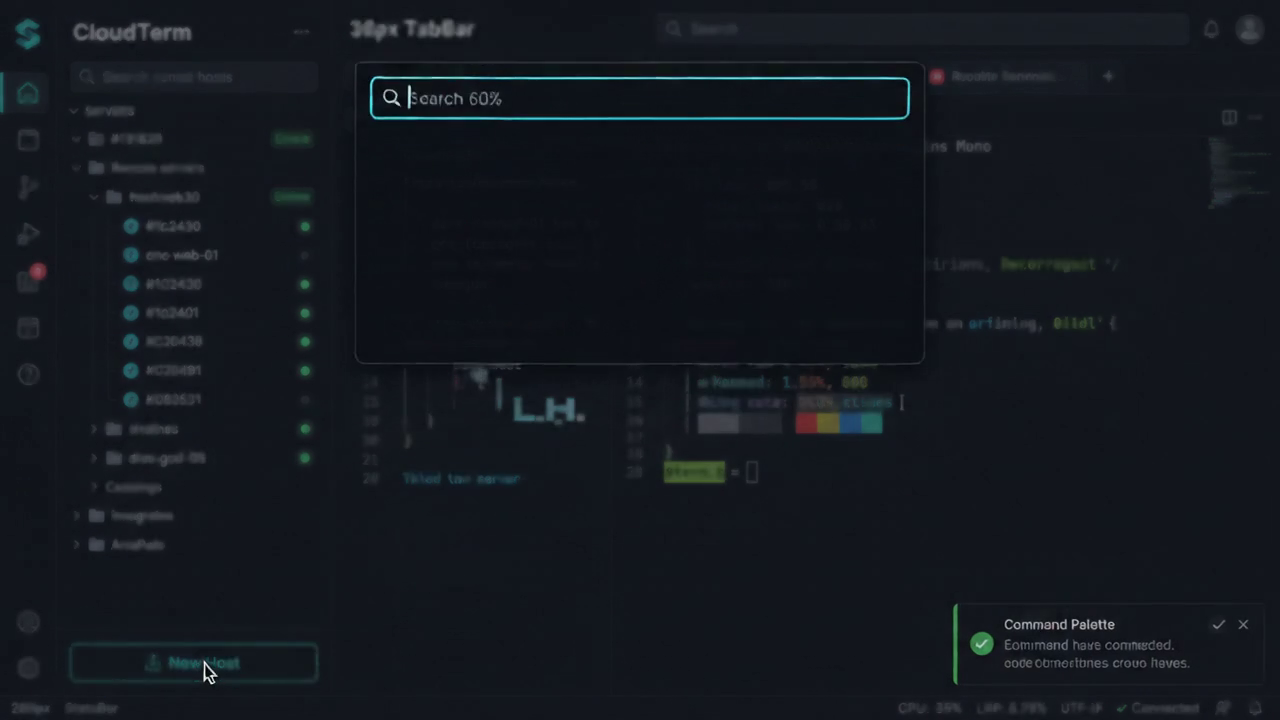
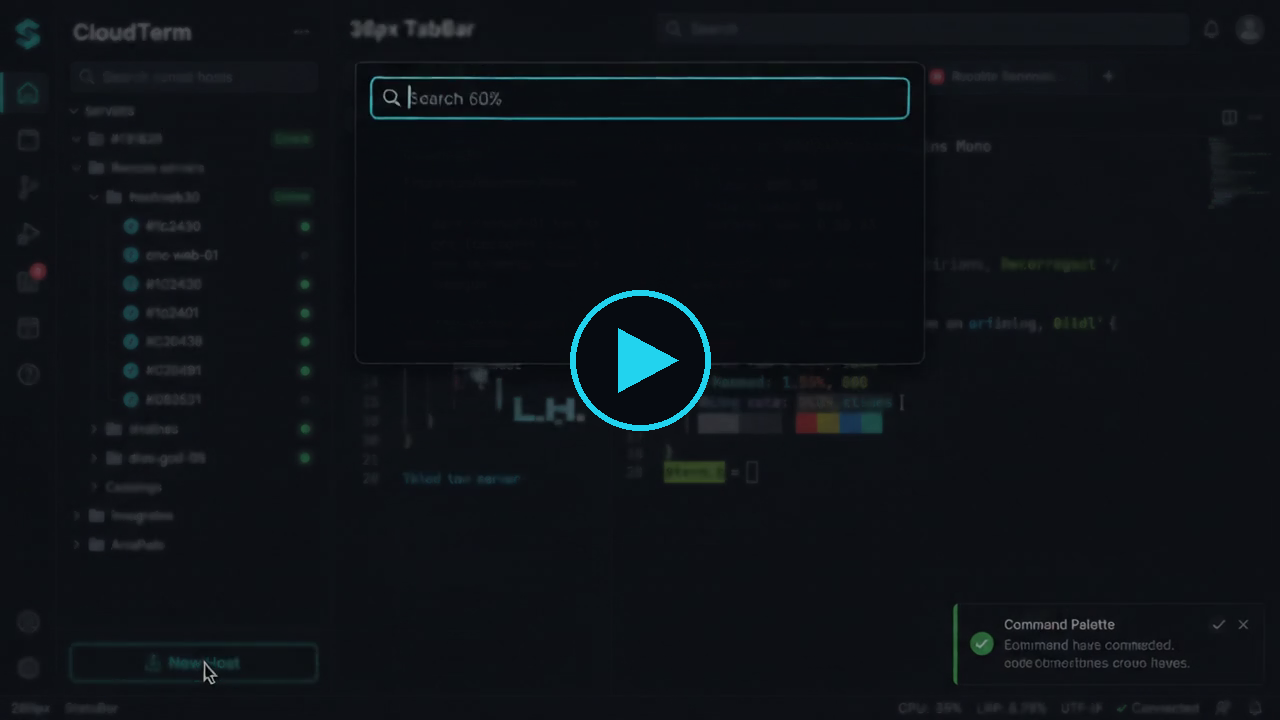
Usar un GIF del ejemplo en el README
El mp4 embebido desde raw no se reproduce en el perfil de GitHub.

diff --git a/README.md b/README.md
@@ -14,7 +14,7 @@ queda en tu equipo.
 [![Idiomas](https://img.shields.io/badge/idiomas-espa%C3%B1ol%20%C2%B7%20english%20%C2%B7%20%E7%AE%80%E4%BD%93%E4%B8%AD%E6%96%87-success)](docs/IDIOMAS.md)
 [![Traducciones](https://github.com/pilahito/cloudterm/actions/workflows/idiomas.yml/badge.svg)](https://github.com/pilahito/cloudterm/actions/workflows/idiomas.yml)
 
-![Vídeo de ejemplo](docs/capturas/ejemplo.mp4)
+![Vídeo de ejemplo](docs/capturas/ejemplo.gif)
 
 </div>
 
